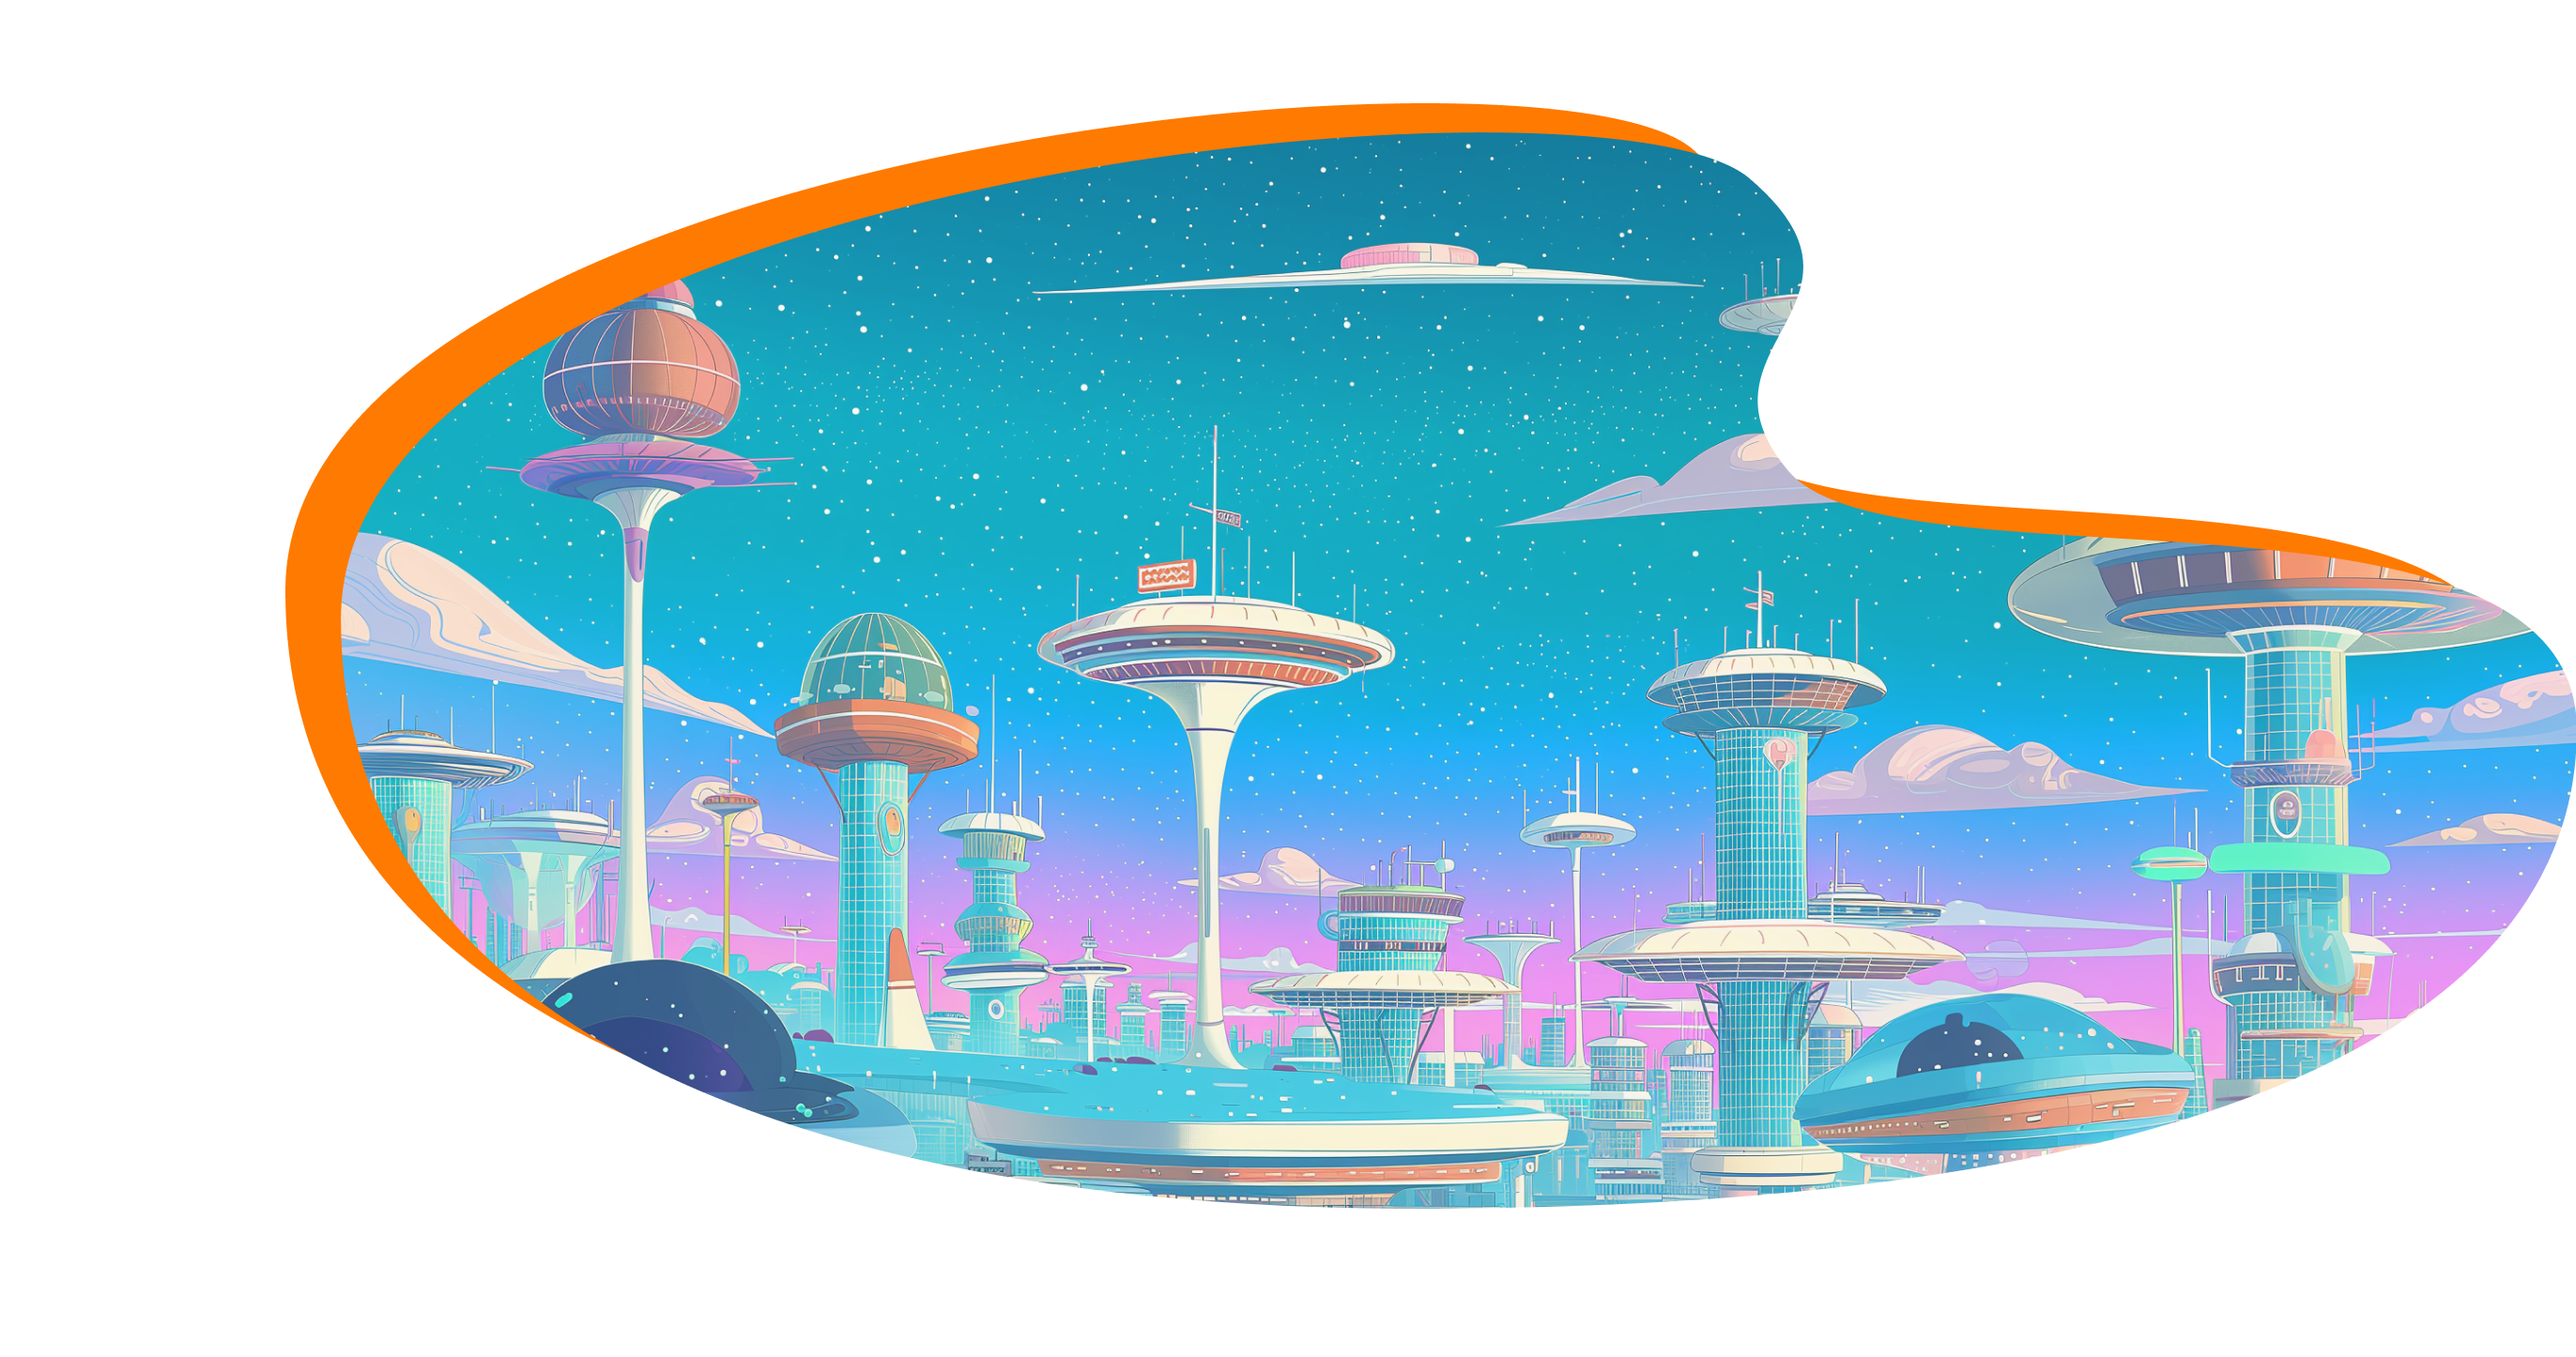
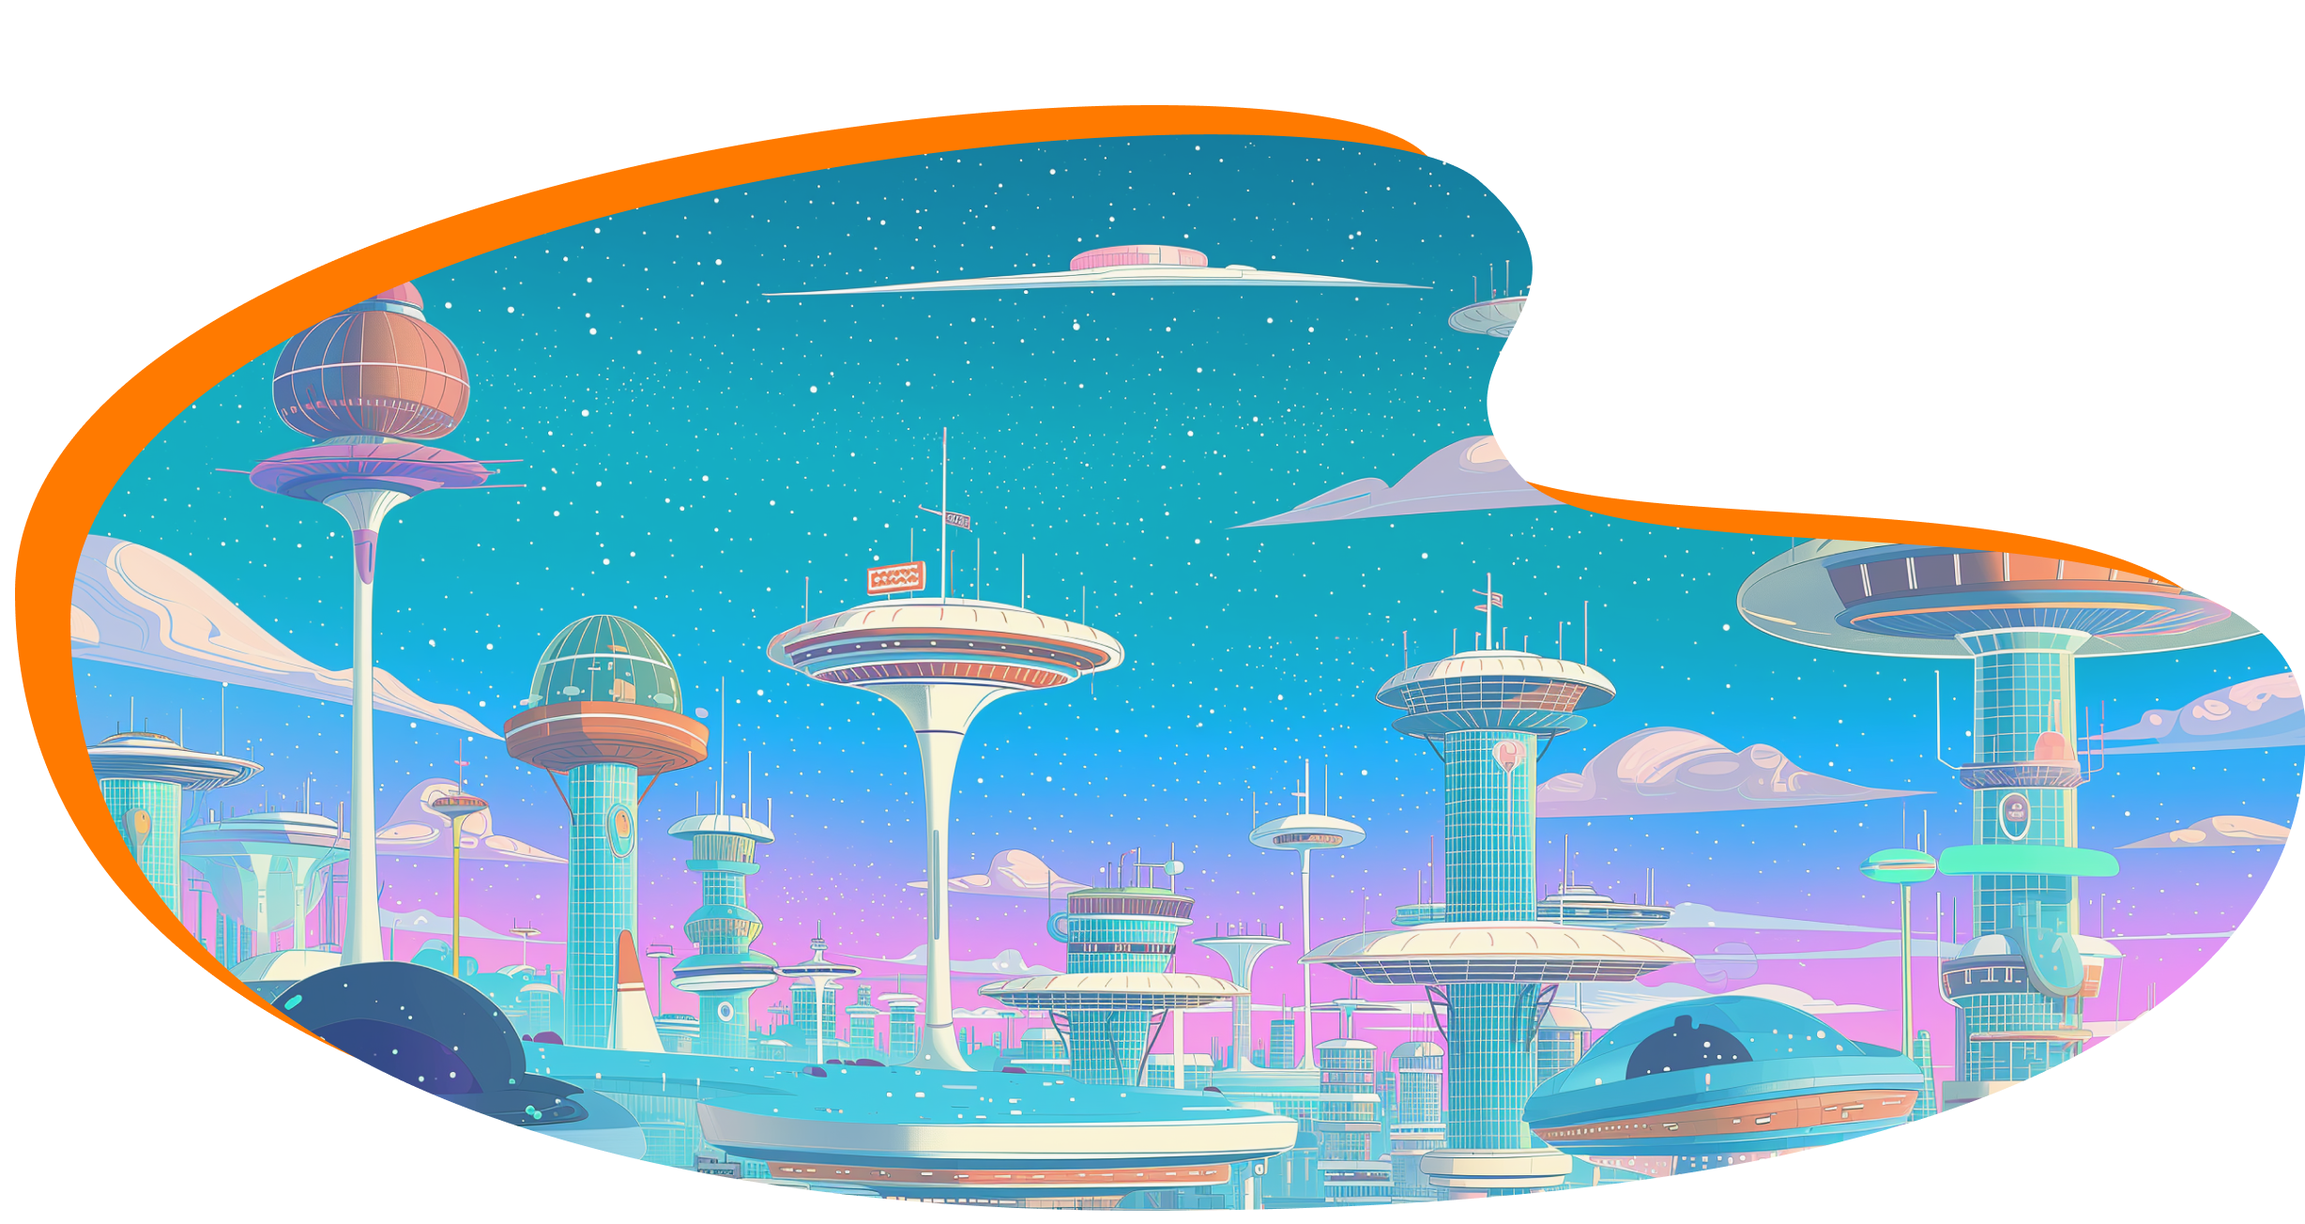
optimized hero

diff --git a/app/page.tsx b/app/page.tsx
@@ -116,27 +116,23 @@ export default function Home() {
             <p className="sr-only">This is how we bitcoin in the future!</p>
             <Image
               src={bolt12HeroTextShadow}
-              placeholder="blur"
               alt=""
-              className="w-full max-w-[1372px] absolute top-0 left-0 animate-hero-text-float"
+              className="w-[36%] max-w-[492px] absolute bottom-0 right-0 animate-hero-text-float"
             />
             <Image
               src={bolt12HeroImage}
-              placeholder="blur"
               alt="A futuristic city among the stars"
-              className="w-full max-w-[1372px] absolute top-0 left-0 animate-hero-image-float"
+              className="w-[90%] max-w-[1228px] absolute top-0 right-0 animate-hero-image-float"
             />
             <Image
               src={bolt12HeroText}
-              placeholder="blur"
               alt=""
-              className="w-full max-w-[1372px] absolute top-0 left-0 animate-hero-text-float"
+              className="w-[36%] max-w-[492px] absolute bottom-0 right-0 animate-hero-text-float"
             />
             <Image
               src={bolt12HeroLogo}
-              placeholder="blur"
               alt=""
-              className="w-full max-w-[1372px] absolute top-0 left-0 animate-hero-logo-float"
+              className="w-[46%] max-w-[643px] absolute top-0 left-0 animate-hero-logo-float"
             />
           </div>
           <div className="flex flex-col items-center text-center  text-xl md:text-2xl lg:text-4xl w-full md:w-2/3 lg:w-1/2 justify-center max-w-sm">
